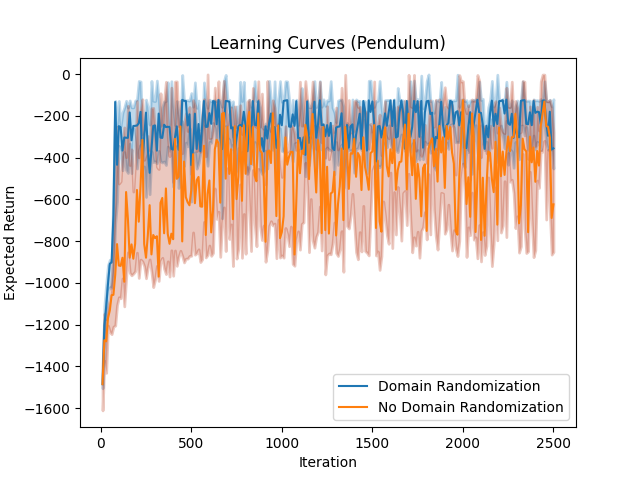
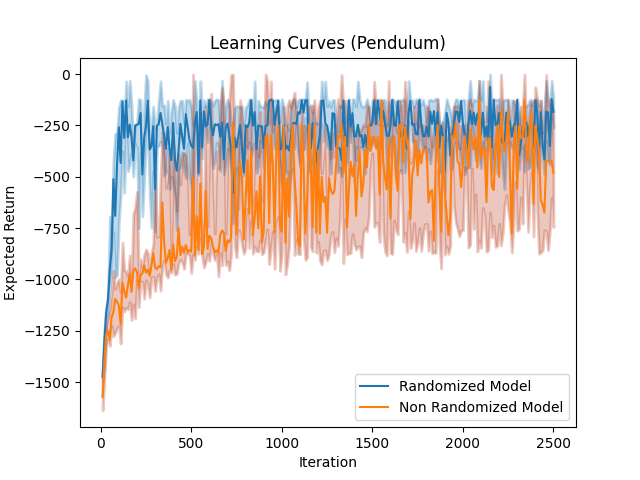
Final changes

diff --git a/src/Pendulum Environment/pendulum_sim2real.py b/src/Pendulum Environment/pendulum_sim2real.py
@@ -1,12 +1,13 @@
-import csv
+# Libraries that are imported
 import gym
 from gym import spaces
 from gym.utils import seeding
-from matplotlib import pyplot as plt
 from stable_baselines3 import TD3
 from stable_baselines3.common.noise import NormalActionNoise
 from stable_baselines3.common.monitor import Monitor
+from pylab import *
 import numpy as np
+import csv
 
 
 
@@ -52,7 +53,7 @@ class PendulumEnv(gym.Env):
         reward = angle_normalize(th) ** 2 + .1 * thdot ** 2 + .001 * (u ** 2)
 
 
-        newthdot = thdot + (-3 * g / (2 * l) * np.sin(th + np.pi) + 3. / (m * l ** 2) * u) * dt
+        newthdot = thdot + (-3*g/ (2*l) * np.sin(th+np.pi) + 3./(m*l**2)*u) * dt
         newth = th + newthdot * dt
         newthdot = np.clip(newthdot, -self.max_speed, self.max_speed)
 
@@ -90,7 +91,6 @@ class PendulumEnv(gym.Env):
             self.m = self.np_random.uniform(0.70, 1.30)
             # Randomize pendulum length +-30%
             self.l = self.np_random.uniform(0.70, 1.30)
-
         else:
             # Set fixed mass, length values +30%
             self.m = 1.30
@@ -100,6 +100,7 @@ class PendulumEnv(gym.Env):
     def seed(self, seed=None):
         self.np_random, seed = seeding.np_random(seed)
         return [seed]
+
 
 
 class TestPendulumEnv(gym.Env):
@@ -146,7 +147,7 @@ class TestPendulumEnv(gym.Env):
         reward = angle_normalize(th) ** 2 + .1 * thdot ** 2 + .001 * (u ** 2)
 
 
-        newthdot = thdot + (-3 * g / (2 * l) * np.sin(th + np.pi) + 3. / (m * l ** 2) * (u - b * thdot)) * dt       # add damping to angular velocity
+        newthdot = thdot + (-3*g / (2*l) * np.sin(th+np.pi) + 3./(m*l**2) * (u-b*thdot)) * dt       # add damping to angular velocity
         newth = th + newthdot * dt
         newthdot = np.clip(newthdot, -self.max_speed, self.max_speed)
 
@@ -196,23 +197,30 @@ def load(dir):
         for row in csv_df:
             reward.append(float(row[0]))
         reward_list.append(reward)
-        print(reward_list)
+        box_reward_list.append(reward[-1])
+        print(reward)
+        print(box_reward_list)
+
+        datafile = open("./logs/Randomized/data.csv", "a")
+        for element in reward:
+            datafile.write(str(element) + "\n")
+        datafile.write("\n")
+        datafile.close()
+
 
     if dir == "./logs/NonRandomized/monitor.csv":
         for row in csv_df:
             reward_non.append(float(row[0]))
         reward_list_non.append(reward_non)
-        print(reward_list_non)
+        box_reward_list_non.append(reward_non[-1])
+        print(reward_non)
+        print(box_reward_list_non)
 
-    if dir == "./logs/Boxplot/monitor.csv":
-        for row in csv_df:
-            reward.append(float(row[0]))
-
-        # Calculate median rewards (for boxplotting)
-        reward = np.median(reward)
-
-        reward_list.append(reward)
-        print(reward_list)
+        datafile = open("./logs/NonRandomized/data.csv", "a")
+        for element in reward_non:
+            datafile.write(str(element) + "\n")
+        datafile.write("\n")
+        datafile.close()
 
 
 def perc(reward_list):
@@ -223,9 +231,10 @@ def perc(reward_list):
 
 
 
-
 reward_list = []
 reward_list_non = []
+box_reward_list = []
+box_reward_list_non = []
 
 # Run 10 times
 for i in range(10):
@@ -268,64 +277,65 @@ for i in range(10):
     non_randomized_model.learn(total_timesteps=timesteps, log_interval=500, eval_env=test_nonrand_mon, eval_freq=2000, n_eval_episodes=1, eval_log_path="./logs/NonRandomized/")
 
 
-
-    # # Instantiate the simulated environment with domain randomization
-    # randomization = True
-    # randomized_env = PendulumEnv(randomization)
-    # # Instantiate the real environment
-    # test_rand_env = TestPendulumEnv()
-    # # Monitor the real environment
-    # test_rand_mon = Monitor(test_rand_env, "./logs/Boxplot/")
-    #
-    #
-    # # The noise objects for TD3
-    # n_actions = randomized_env.action_space.shape[-1]
-    # action_noise = NormalActionNoise(mean=np.zeros(n_actions), sigma=0.1 * np.ones(n_actions))
-    #
-    # model = TD3("MlpPolicy", randomized_env, action_noise=action_noise, verbose=1)
-    #
-    # timesteps = int(500000)
-    # # After 500000 steps of learning, test to the real environment (with domain randomization)
-    # model.learn(total_timesteps=timesteps, log_interval=500, eval_env=test_rand_mon, eval_freq=500000, n_eval_episodes=1, eval_log_path="./logs/Boxplot/")
-
-
     # Dataframe split to get only the important data (rewards)
-    choice = 1
     load("./logs/Randomized/monitor.csv")
     load("./logs/NonRandomized/monitor.csv")
 
-    # choice = 2
-    # load("./logs/Boxplot/monitor.csv")
 
 
+# Plot the results using learning curves
+# Compute the median and 25/75 percentiles with domain randomization
+rwd_med_list, rwd_perc_25, rwd_perc_75 = perc(reward_list)
 
-if choice == 1:
-    # Plot the results using the first type of learning/testing
-    # Compute the median and 25/75 percentiles with domain randomization
-    rwd_med_list, rwd_perc_25, rwd_perc_75 = perc(reward_list)
+# Compute the median and 25/75 percentiles without domain randomization
+rwd_med_list_non, rwd_perc_25_non, rwd_perc_75_non = perc(reward_list_non)
 
-    # Compute the median and 25/75 percentiles without domain randomization
-    rwd_med_list_non, rwd_perc_25_non, rwd_perc_75_non = perc(reward_list_non)
+# Iteration list
+iter_list = list(range(10, 2510, 10))
+
+plt.fill_between(iter_list, rwd_perc_25, rwd_perc_75, alpha=0.25, linewidth=2, color='#006BB2')
+plt.fill_between(iter_list, rwd_perc_25_non, rwd_perc_75_non, alpha=0.25, linewidth=2, color='#B22400')
+
+plt.plot(iter_list, rwd_med_list)
+plt.plot(iter_list, rwd_med_list_non)
+plt.legend(["Randomized Model", "Non Randomized Model"])
+plt.title("Learning Curves (Pendulum)")
+plt.xlabel("Iteration")
+plt.ylabel("Expected Return")
+plt.show()
 
 
-    # Iteration list
-    iter_list = list(range(10, 2510, 10))
+# Plot the results using boxplots
+fig = figure()
+ax = fig.add_subplot()
+bp = ax.boxplot([box_reward_list, box_reward_list_non])
 
-    plt.fill_between(iter_list, rwd_perc_25, rwd_perc_75, alpha=0.25, linewidth=2, color='#006BB2')
-    plt.fill_between(iter_list, rwd_perc_25_non, rwd_perc_75_non, alpha=0.25, linewidth=2, color='#B22400')
+colors = ['#43A2CA', '#FDAE6B']
+for i in range(0, len(bp['boxes'])):
+    bp['boxes'][i].set_color(colors[i])
+    bp['whiskers'][i * 2].set_color(colors[i])
+    bp['whiskers'][i * 2 + 1].set_color(colors[i])
+    bp['whiskers'][i * 2].set_linewidth(2)
+    bp['whiskers'][i * 2 + 1].set_linewidth(2)
+    bp['fliers'][i].set(markerfacecolor=colors[i], marker='o', alpha=0.75, markersize=6, markeredgecolor='none')
+    bp['medians'][i].set_color('black')
+    bp['medians'][i].set_linewidth(3)
+    for c in bp['caps']:
+        c.set_linewidth(2)
+for i in range(len(bp['boxes'])):
+    box = bp['boxes'][i]
+    box.set_linewidth(0)
+    boxX = []
+    boxY = []
+    for j in range(5):
+        boxX.append(box.get_xdata()[j])
+        boxY.append(box.get_ydata()[j])
+        boxCoords = list(zip(boxX, boxY))
+        boxPolygon = Polygon(boxCoords, facecolor=colors[i], linewidth=0)
+        ax.add_patch(boxPolygon)
 
-    plt.plot(iter_list, rwd_med_list)
-    plt.plot(iter_list, rwd_med_list_non)
-    plt.legend(["Domain Randomization", "No Domain Randomization"])
-    plt.title("Learning Curves (Pendulum)")
-    plt.xlabel("Iteration")
-    plt.ylabel("Expected Return")
-    plt.show()
-
-if choice == 2:
-    # Boxplot the results using the second type of learning/testing
-    plt.boxplot(reward_list)
-    plt.title("Boxplot (Pendulum)")
-    plt.xlabel("Box No.")
-    plt.ylabel("Expected Return")
-    plt.show()
+plt.title("Boxplots (Pendulum)")
+plt.xlabel("Boxes")
+plt.ylabel("Expected Return")
+ax.set_xticklabels(["Randomized Model", "Non Randomized Model"])
+plt.show()
